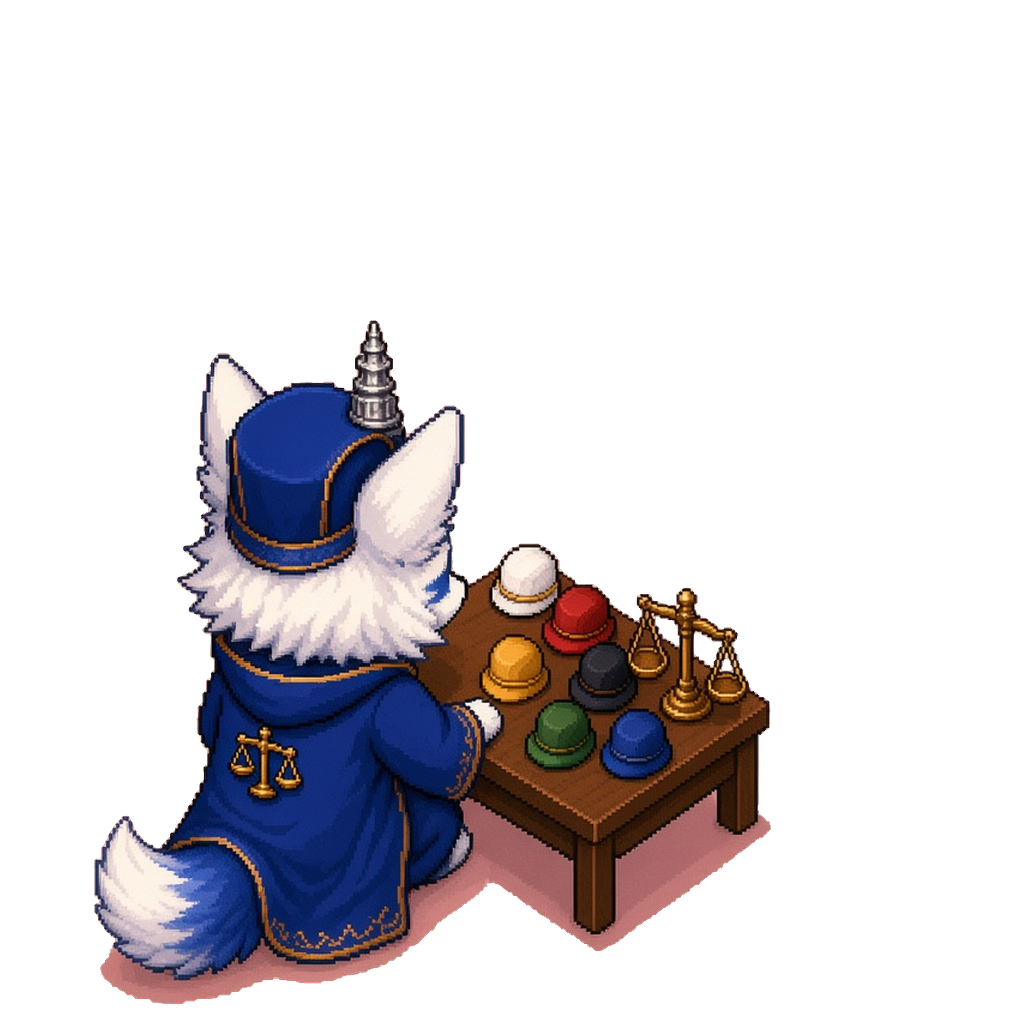
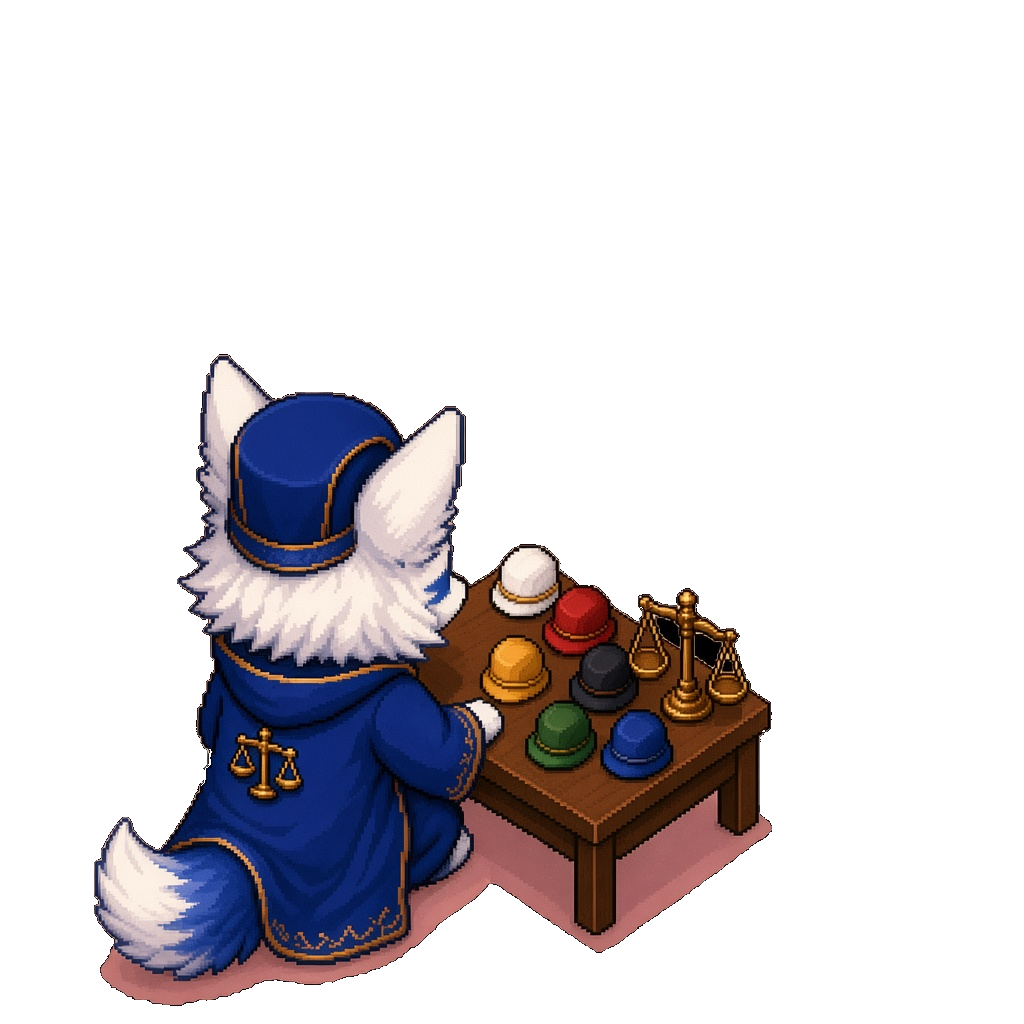
pixel map: 決策官 desk remove hat tower (meet18)

diff --git a/ai-office-pixel-map.html b/ai-office-pixel-map.html
@@ -659,7 +659,7 @@
     /* Locked meeting table asset — oval from bottom room 磁鐵改靚; do not swap shape. */
     const MEETING_TABLE = 'furn-meeting-table-oval.png';
     const FURN_V = 'furn31';
-    const SPRITE_V = 'meet17';
+    const SPRITE_V = 'meet18';
     const SEAT_V = 'seat12';
     const VIGNETTE_V = 'vig19'; /* Look t870u: progress expand down just above names */
 
